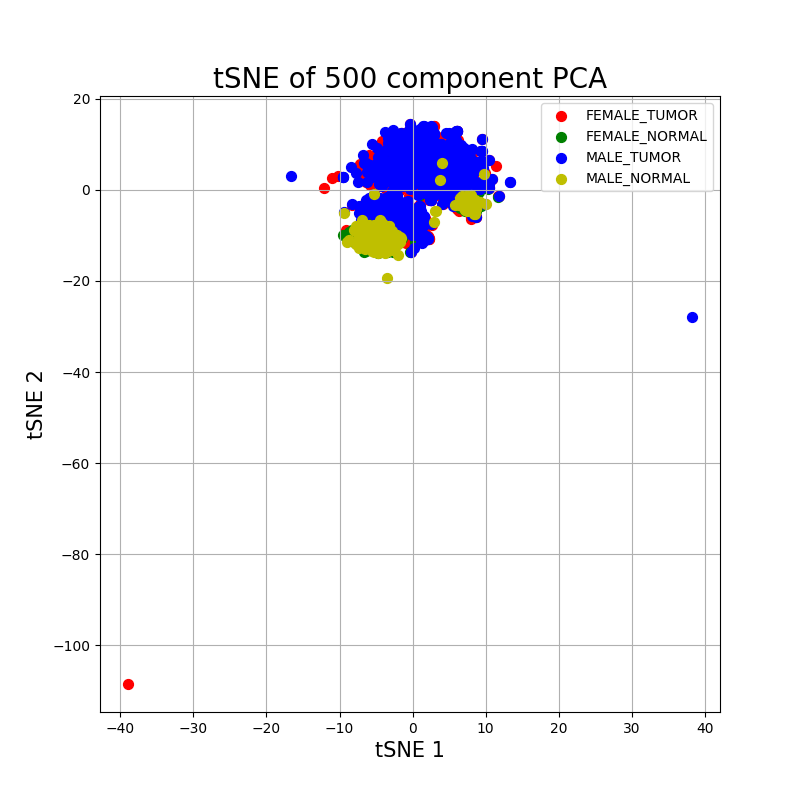
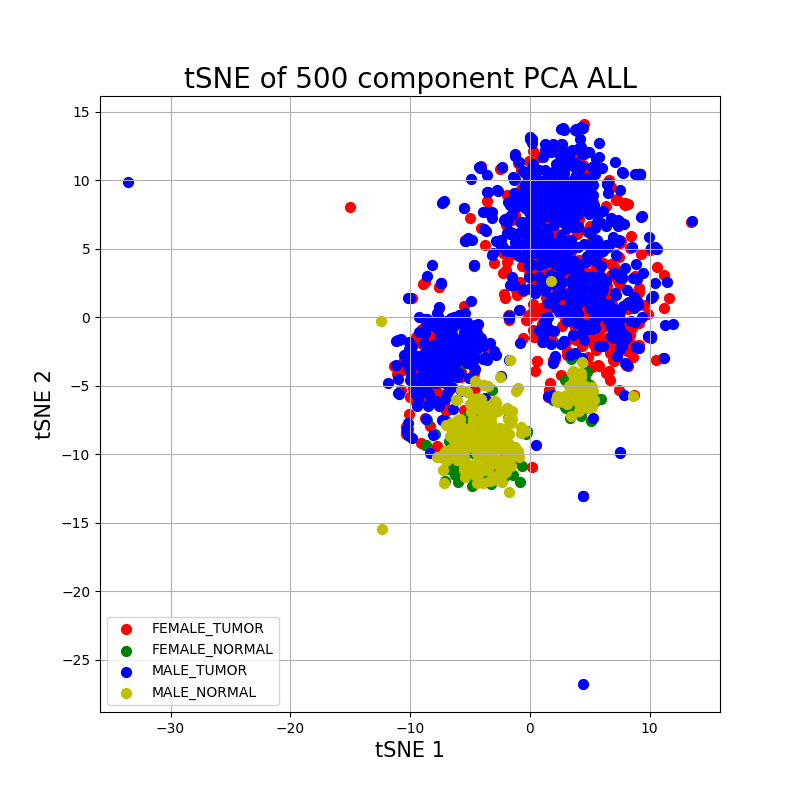
namein figure titles

diff --git a/code/PCA.py b/code/PCA.py
@@ -63,7 +63,7 @@ explained_variance_plot = explained_variance_plot[1:]
 plt.plot(np.linspace(1,n_components,n_components),explained_variance_plot)
 plt.xlabel('Number of Compontents')
 plt.ylabel('Explained Variance')
-plt.title('Explained Variance Plot')
+plt.title('Explained Variance '+proj)
 plt.savefig('figures/'+proj+'_PC_explained_variance.png')
 
 # plot PCA
@@ -71,7 +71,7 @@ fig = plt.figure(figsize = (8,8))
 ax = fig.add_subplot(1,1,1) 
 ax.set_xlabel('PC1 (explained variance: '+str(round(explained_variance[0],2))+')', fontsize = 15)
 ax.set_ylabel('PC2 (explained variance: '+str(round(explained_variance[1],2))+')', fontsize = 15)
-ax.set_title(str(n_components)+' component PCA', fontsize = 20)
+ax.set_title(str(n_components)+' component PCA '+proj, fontsize = 20)
 
 targets = ['FEMALE_TUMOR','FEMALE_NORMAL','MALE_TUMOR','MALE_NORMAL']
 colors = ['r', 'g', 'b','y']
@@ -94,7 +94,7 @@ fig = plt.figure(figsize = (8,8))
 ax = fig.add_subplot(1,1,1) 
 ax.set_xlabel('tSNE 1', fontsize = 15)
 ax.set_ylabel('tSNE 2', fontsize = 15)
-ax.set_title('tSNE of '+str(n_components)+' component PCA', fontsize = 20)
+ax.set_title('tSNE of '+str(n_components)+' component PCA '+proj, fontsize = 20)
 for target, color in zip(targets,colors):
     indicesToKeep = finalDf['Label'] == target
     ax.scatter(tsne_results[indicesToKeep, 0]
